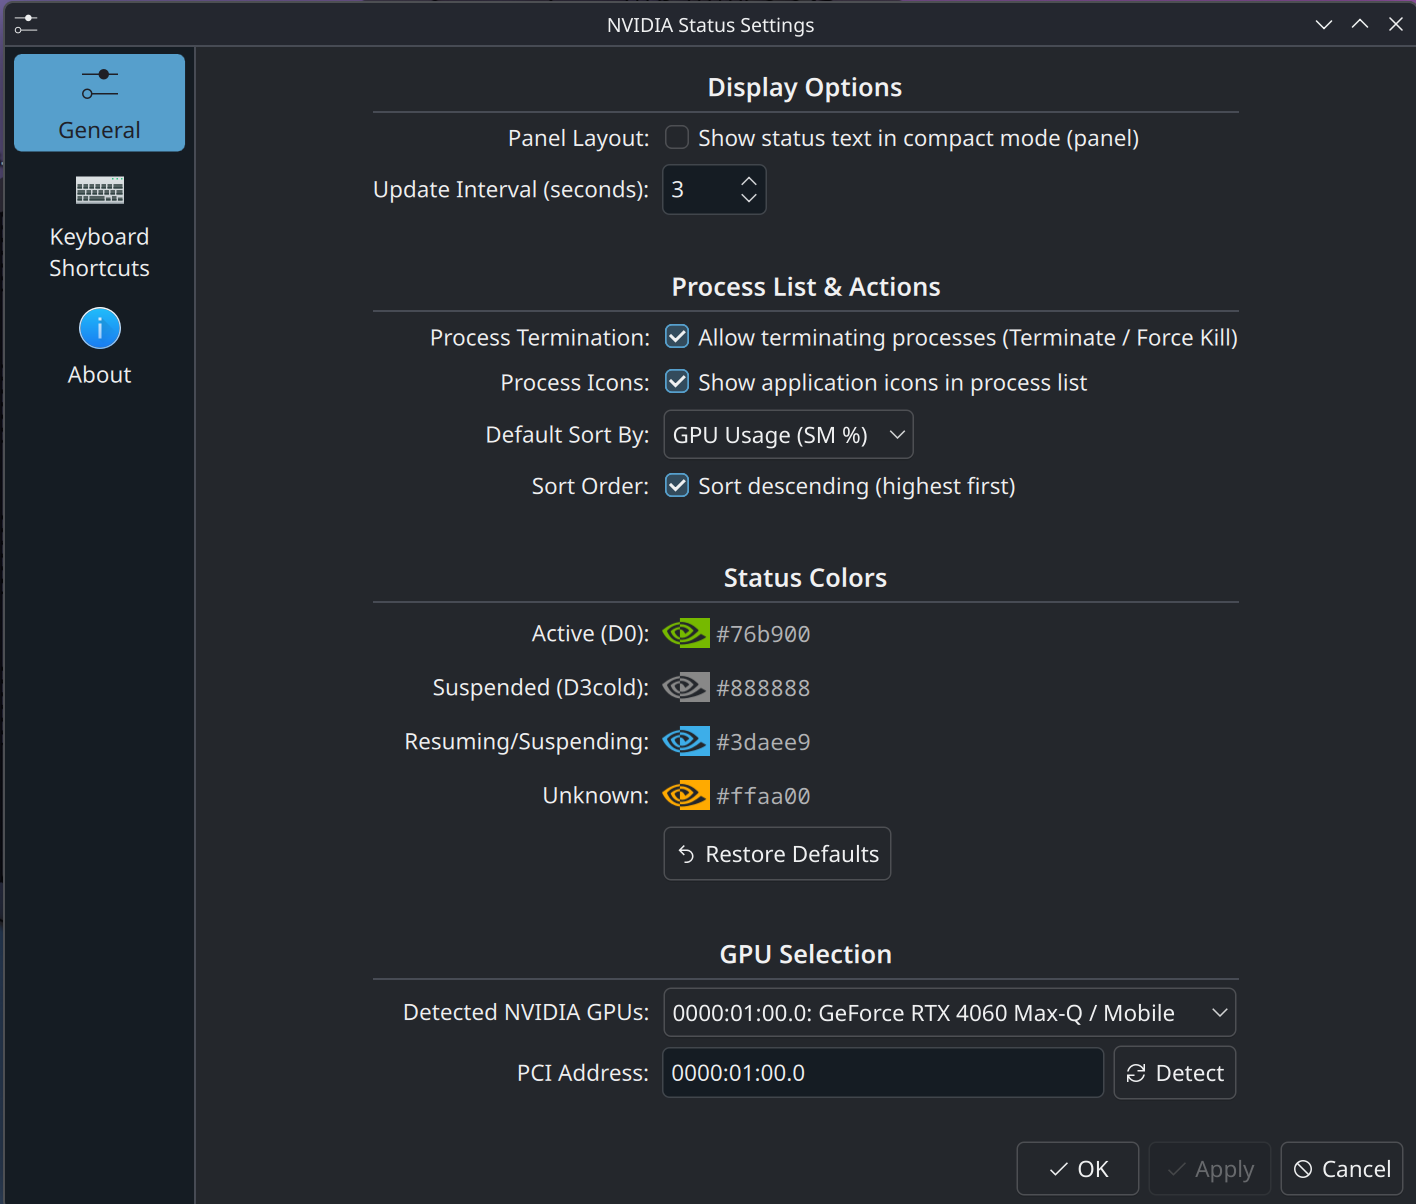
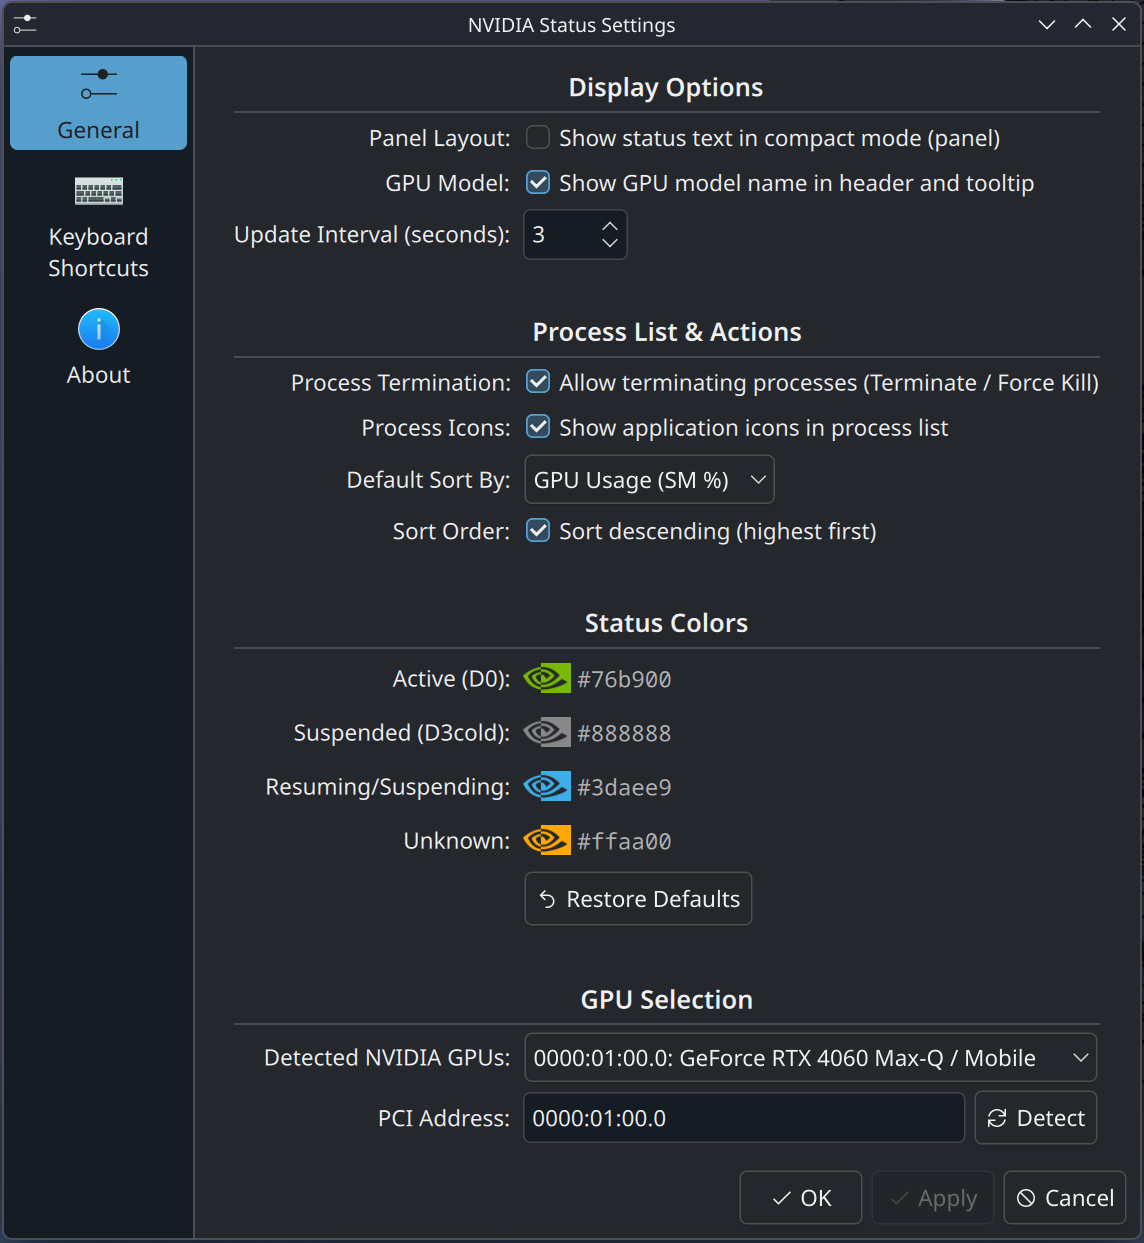
docs: update README and screenshots with multi-GPU and GPU model features

diff --git a/README.md b/README.md
@@ -2,17 +2,19 @@
 <img src="screenshot.png" width="500" alt="NVIDIA Status Screenshot">
 <img src="screenshot2.png" width="250" alt="NVIDIA Status Screenshot 2">
 
-KDE Plasma 6 widget for monitoring NVIDIA GPU power state (`Suspended / D3cold` vs `Active / D0`) and active processes.
+KDE Plasma 6 widget for monitoring NVIDIA GPU power state (`Suspended / D3cold` vs `Active / D0`), hardware telemetry, and active processes.
 
 ## Features
 - **GPU Status Monitor**: Real-time monitoring of `Suspended (D3cold)` and `Active (D0)` power states via sysfs.
+- **Multi-GPU Support**: Configurable per-instance PCI address binding to independently monitor multiple NVIDIA cards on the same system.
+- **GPU Model Detection**: Automatically detects and displays your clean GPU model name (e.g. `RTX 4060`, `RTX 5060 Ti`) with a toggle in settings.
 - **Process Tracking**: Lists applications using the dGPU with GPU utilization (%) and VRAM memory consumption.
+- **Process Icon Resolution**: Automatically resolves desktop icons for apps, games, tools, and system processes running on the dGPU (Flatpaks, native packages, and direct `.exe` icon extraction for Proton/Wine games).
 - **Flexible Display Modes**: Use as a compact panel applet or place directly on your desktop / secondary monitor as a floating widget.
-- **Configurable Process Sorting**: Sort processes by GPU Usage (SM %), VRAM allocation, or Process Name with ascending/descending toggles.
-- **Smart Power Guardian**: Automatically pauses polling when user applications close, allowing the dGPU to enter `D3cold` sleep state even while keeping the process list view open. Filters out background desktop compositor tasks (`kwin_wayland`, `plasmashell`).
 - **GPU Telemetry & VRAM Meter**: Visual progress bar for total dGPU VRAM allocation along with live temperature (°C) and power draw (Watts) telemetry.
 - **Process Management**: Directly terminate (`SIGTERM`) or force kill (`SIGKILL`) user applications keeping the dGPU awake (with safe protection for system processes like `kwin_wayland` and a settings toggle to enable/disable).
-- **Process Icon Resolution**: Automatically resolves desktop icons for apps, games, tools, and system processes running on the dGPU (configurable in settings).
+- **Smart Power Guardian**: Automatically pauses polling when user applications close, allowing the dGPU to enter `D3cold` sleep state even while keeping the process list view open. Filters out background desktop compositor tasks (`kwin_wayland`, `plasmashell`).
+- **Configurable Process Sorting**: Sort processes by GPU Usage (SM %), VRAM allocation, or Process Name with ascending/descending toggles.
 - **Proton / DXVK Support**: Accurately tracks GPU percentage for Vulkan and Direct3D games.
 - **Dynamic Discovery**: Automatically detects `nvidia-smi` across system and user binary paths.
 - **Persistent Header**: Optional pinning to keep popups open and shortcut to settings.
@@ -20,7 +22,7 @@ KDE Plasma 6 widget for monitoring NVIDIA GPU power state (`Suspended / D3cold` 
 ## Requirements
 - KDE Plasma 6
 - NVIDIA Proprietary Driver
-- `nvidia-smi` (optional — for process list)
+- `nvidia-smi` (optional — for process list & telemetry)
 
 ## Installation
 
@@ -44,12 +46,14 @@ Alternatively, view or download it directly from the [KDE Store](https://store.k
    *To update an existing installation:*
    ```bash
    kpackagetool6 -t Plasma/Applet -u package/
+   systemctl --user restart plasma-plasmashell
    ```
 
 ## Configuration
-- **PCI Address**: Automatically detected, but can be manually set if necessary.
+- **PCI Address**: Automatically detected, with support for multi-GPU setups.
+- **GPU Model Display**: Toggle display of the GPU model name in header and tooltip.
 - **Polling Interval**: Adjustable from settings (default: 3 seconds).
-- **Appearance**: Customizable colors for different power states and toggleable panel text.
+- **Appearance & Toggles**: Customizable colors for different power states, toggleable panel text, process termination toggle, and process icons toggle.
 - **Process Sorting**: Click list column headers to sort by Process Name, GPU %, or VRAM.
 
 ## License
